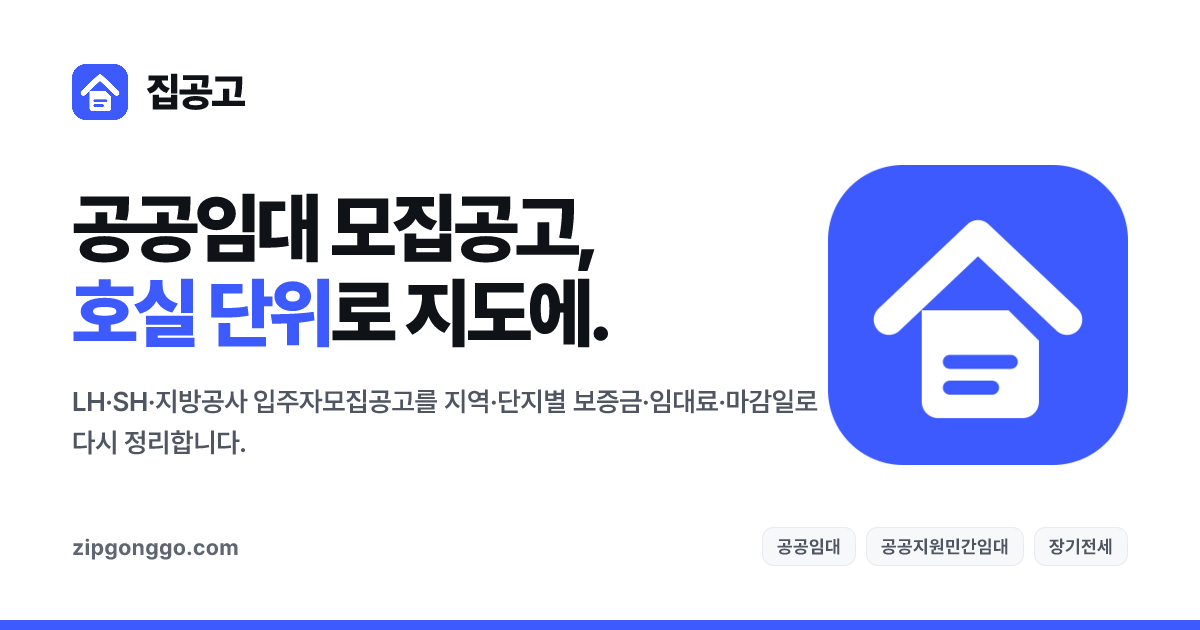
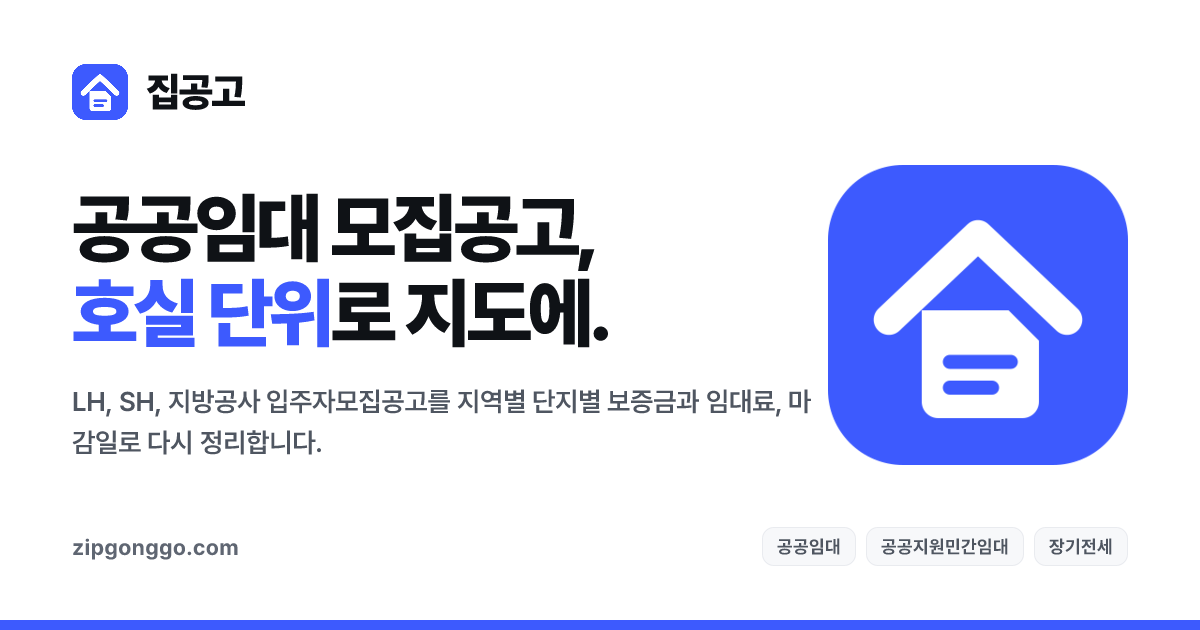
chore: 화면 문자열에서 가운뎃점 제거(사용자 결정) — 나열은 | , 병렬 명사는 자연스러운 한국어로. OG 이미지 문구도 재생성. CLAUDE.md에 표기 규칙 추가

Changed region(s): [[0.0617, 0.6032, 0.6783, 0.7238]]

diff --git a/web/src/app/notice/[slug]/page.tsx b/web/src/app/notice/[slug]/page.tsx
@@ -31,7 +31,7 @@ export async function generateMetadata({ params }: Params): Promise<Metadata> {
   const dday = d === null ? "" : d < 0 ? "(마감)" : `(D-${d})`;
   const supply = n.supply_count != null ? num(n.supply_count, "호") : "";
   return {
-    title: `${n.title} — ${n.housing_type} ${supply} 보증금·임대료·접수일정`.replace(/\s+/g, " "),
+    title: `${n.title} — ${n.housing_type} ${supply} 보증금/임대료/접수일정`.replace(/\s+/g, " "),
     description: `${n.agency} ${n.title}. 접수 ${dateK(n.apply_start_at)}~${dateK(n.apply_end_at)}${dday}. ${regionLabel(n)} ${supply}. 최소 보증금 ${won(n.min_deposit)}, 최소 월임대료 ${won(n.min_rent)}.`,
     alternates: { canonical: noticePath(n.slug) },
   };
@@ -57,12 +57,12 @@ function priceRows(n: Notice): PriceRow[] {
   const rows: PriceRow[] = [{ kind: "기본 (공고 최소값)", deposit: wonKo(n.min_deposit), rent: wonKo(n.min_rent), exact: [n.min_deposit, n.min_rent] }];
   const down = pos(n.min_down_payment), interim = pos(n.min_interim), balance = pos(n.min_balance);
   if (down != null || interim != null || balance != null) {
-    if (down != null) rows.push({ kind: "납부 구성 · 계약금", deposit: wonKo(down), rent: "—", exact: [down, null] });
-    if (interim != null) rows.push({ kind: "납부 구성 · 중도금", deposit: wonKo(interim), rent: "—", exact: [interim, null] });
-    if (balance != null) rows.push({ kind: "납부 구성 · 잔금", deposit: wonKo(balance), rent: "—", exact: [balance, null] });
+    if (down != null) rows.push({ kind: "납부 구성 계약금", deposit: wonKo(down), rent: "—", exact: [down, null] });
+    if (interim != null) rows.push({ kind: "납부 구성 중도금", deposit: wonKo(interim), rent: "—", exact: [interim, null] });
+    if (balance != null) rows.push({ kind: "납부 구성 잔금", deposit: wonKo(balance), rent: "—", exact: [balance, null] });
   } else if (n.min_rent == null && n.min_deposit != null) {
-    rows.push({ kind: "납부 구성 · 계약금 (10% 가정)", deposit: wonKo(Math.round(n.min_deposit * 0.1)), rent: "—", exact: [Math.round(n.min_deposit * 0.1), null] });
-    rows.push({ kind: "납부 구성 · 잔금 (90% 가정)", deposit: wonKo(Math.round(n.min_deposit * 0.9)), rent: "—", exact: [Math.round(n.min_deposit * 0.9), null] });
+    rows.push({ kind: "납부 구성 계약금 (10% 가정)", deposit: wonKo(Math.round(n.min_deposit * 0.1)), rent: "—", exact: [Math.round(n.min_deposit * 0.1), null] });
+    rows.push({ kind: "납부 구성 잔금 (90% 가정)", deposit: wonKo(Math.round(n.min_deposit * 0.9)), rent: "—", exact: [Math.round(n.min_deposit * 0.9), null] });
   }
   if ((n.max_deposit != null && n.max_deposit !== n.min_deposit) || (n.max_rent != null && n.max_rent !== n.min_rent)) {
     rows.push({ kind: "최대 (공고 최대값)", deposit: wonKo(n.max_deposit ?? n.min_deposit), rent: wonKo(n.max_rent ?? n.min_rent), exact: [n.max_deposit ?? n.min_deposit, n.max_rent ?? n.min_rent] });
@@ -102,7 +102,7 @@ export default async function NoticePage({ params }: Params) {
     <article className="stage">
       <div className="crumb">
         <Link href={ROUTES.home} className="back">← 지도</Link>
-        <span>공고 · {region} · {n.housing_type}</span>
+        <span>공고 | {region} | {n.housing_type}</span>
       </div>
 
       <div className="detail">
@@ -122,12 +122,12 @@ export default async function NoticePage({ params }: Params) {
                 <span className="jumbo-label">{m.label}</span>
                 <b className="jumbo">{range_ ? `${m.main}~${range_}` : m.main}</b>
                 {!range_ && <span className="jumbo-from">부터</span>}
-                {m.sub && <span className="jumbo-sub">{m.sub} 부터 · 공고 최소값</span>}
-                {range_ && <span className="jumbo-sub">단지·면적별 {m.label} 범위 · 첨부 공고문 공급현황 표</span>}
+                {m.sub && <span className="jumbo-sub">{m.sub} 부터, 공고 최소값</span>}
+                {range_ && <span className="jumbo-sub">단지별 면적별 {m.label} 범위, 첨부 공고문 공급현황 표</span>}
               </>
             ) : (
               <>
-                <span className="jumbo-label">보증금 · 임대료</span>
+                <span className="jumbo-label">보증금과 임대료</span>
                 <span className="jumbo-sub" style={{ marginTop: 0 }}>목록 데이터에 금액이 없습니다. {L.originalDoc}의 표를 확인하세요.</span>
               </>
             )}
@@ -155,7 +155,7 @@ export default async function NoticePage({ params }: Params) {
                 ))}
               </div>
             ) : (
-              <p className="note" style={{ marginTop: 0 }}>공고일 {dateK(n.posted_at, true)}{n.source_status && ` · 모집 상태 ${n.source_status}`} · 접수 기간은 {L.originalDoc}에서 확인하세요.</p>
+              <p className="note" style={{ marginTop: 0 }}>공고일 {dateK(n.posted_at, true)}{n.source_status && `, 모집 상태 ${n.source_status}`}. 접수 기간은 {L.originalDoc}에서 확인하세요.</p>
             )}
             {hasSchedule && n.source_status && <p className="note">모집 상태 {n.source_status}</p>}
             {hasSchedule && n.schedule_source === "attachment" && <p className="note">일정은 첨부 공고문의 「입주자 모집 절차 및 일정」에서 읽었습니다. 순위별 세부 일정은 원문을 확인하세요.</p>}
@@ -163,8 +163,8 @@ export default async function NoticePage({ params }: Params) {
 
           {hasMoney && (
             <section className="dsec">
-              <h2>보증금 · 임대료</h2>
-              <div className="ptable" role="table" aria-label="보증금·임대료">
+              <h2>보증금과 임대료</h2>
+              <div className="ptable" role="table" aria-label="보증금과 임대료">
                 <div className="h" role="row"><span role="columnheader">구분</span><span role="columnheader" style={{ textAlign: "right" }}>보증금</span><span role="columnheader" style={{ textAlign: "right" }}>월임대료</span></div>
                 {priceRows(n).map((r) => (
                   <div key={r.kind} role="row">
@@ -174,17 +174,17 @@ export default async function NoticePage({ params }: Params) {
                   </div>
                 ))}
               </div>
-              <p className="note">단지·호실별 금액은 {L.originalDoc}의 표를 따릅니다.</p>
+              <p className="note">단지별 호실별 금액은 {L.originalDoc}의 표를 따릅니다.</p>
             </section>
           )}
 
           {complexes.length > 0 && (
             <section className="dsec">
-              <h2>공급 단지 {count(complexes.length, "곳")}{hasUnits && ` · ${count(unitTotal, "호")}`}</h2>
+              <h2>공급 단지 {count(complexes.length, "곳")}{hasUnits && ` | ${count(unitTotal, "호")}`}</h2>
               <p className="note" style={{ margin: "0 0 12px" }}>
                 {hasUnits
-                  ? "첨부 공고문의 「주택목록」(호실 단위)을 단지별로 묶은 목록입니다. 보증금·월임대료는 단지 안 최소값이고, 호별 금액은 원문 표를 확인하세요."
-                  : `첨부 공고문의 「주택 위치 안내」 표를 재구성한 목록입니다.${newCount > 0 ? ` 이번 공고 신규 단지 ${newCount}곳.` : ""} 단지별 면적·호수·금액은 원문 표를 확인하세요.`}
+                  ? "첨부 공고문의 「주택목록」(호실 단위)을 단지별로 묶은 목록입니다. 보증금과 월임대료는 단지 안 최소값이고, 호별 금액은 원문 표를 확인하세요."
+                  : `첨부 공고문의 「주택 위치 안내」 표를 재구성한 목록입니다.${newCount > 0 ? ` 이번 공고 신규 단지 ${newCount}곳.` : ""} 단지별 면적과 호수, 금액은 원문 표를 확인하세요.`}
               </p>
               <ComplexExplorer items={complexes} hasUnits={hasUnits} />
             </section>
@@ -220,7 +220,7 @@ export default async function NoticePage({ params }: Params) {
           )}
 
           <section className="dsec">
-            <h2>원문 · 문의</h2>
+            <h2>원문과 문의</h2>
             <ul className="link-list">
               <li><ExternalLink href={n.source_url}>{L.originalListItem} ↗</ExternalLink></li>
               {n.portal_url && <li><ExternalLink href={n.portal_url}>{L.portalListItem} ↗</ExternalLink></li>}
@@ -257,7 +257,7 @@ export default async function NoticePage({ params }: Params) {
               <div className="r"><span>공급호수</span><b>{n.supply_count != null ? num(n.supply_count, "호") : "—"}</b></div>
               <div className="r"><span>접수</span><b>{period ?? "—"}</b></div>
               <div className="r"><span>문의처</span><b>{n.contact ?? "—"}</b></div>
-              <span className="u">갱신 {n.updated_at} · {L.updatedVia}</span>
+              <span className="u">갱신 {n.updated_at} | {L.updatedVia}</span>
             </div>
           </div>
         </aside>

diff --git a/web/src/app/(home)/page.tsx b/web/src/app/(home)/page.tsx
@@ -14,8 +14,8 @@ export const revalidate = 3600;
 
 type SearchParams = Promise<Record<string, string | string[] | undefined>>;
 
-const HOME_TITLE = "공공임대·민간임대 입주자모집공고 목록";
-const HOME_DESCRIPTION = "LH·SH·지방공사 공공임대와 공공지원민간임대 입주자모집공고를 한곳에. 마감 임박순·최신 공고순, 시도·공급유형별 보증금·월임대료·접수일정. 공고별 공급 단지는 지도로.";
+const HOME_TITLE = "공공임대/민간임대 입주자모집공고 목록";
+const HOME_DESCRIPTION = "LH, SH, 지방공사 공공임대와 공공지원민간임대 입주자모집공고를 한곳에. 마감 임박순과 최신 공고순, 시도별 공급유형별 보증금, 월임대료, 접수일정. 공고별 공급 단지는 지도로.";
 
 // 필터 결과(?sector=&sido=&type=&sort=&closing=)는 noindex, canonical은 파라미터 없는 "/" — docs/url-structure.md
 export async function generateMetadata({ searchParams }: { searchParams: SearchParams }): Promise<Metadata> {
@@ -50,7 +50,7 @@ export default async function HomePage({ searchParams }: { searchParams: SearchP
   return (
     <div className="stage">
       <div className="list-hero">
-        <p className="eyebrow">공공임대 {countOf("공공임대")} · 공공지원민간임대 {countOf("민간임대")}</p>
+        <p className="eyebrow">공공임대 {countOf("공공임대")} | 공공지원민간임대 {countOf("민간임대")}</p>
         <h1>{LIST_HERO_TITLE}</h1>
         <p>{LIST_HERO_LEAD}</p>
       </div>

diff --git a/web/src/components/complex-explorer.tsx b/web/src/components/complex-explorer.tsx
@@ -118,7 +118,7 @@ export function ComplexExplorer({ items, hasUnits }: Props) {
             <option value="">자치구 전체</option>
             {gus.map(([g, n]) => <option key={g} value={g}>{g} ({n})</option>)}
           </select>
-          <input type="search" value={q} onChange={(e) => { setQ(e.target.value); setSelected(null); }} placeholder="단지명·주소 검색" aria-label="단지명·주소 검색" />
+          <input type="search" value={q} onChange={(e) => { setQ(e.target.value); setSelected(null); }} placeholder="단지명, 주소 검색" aria-label="단지명, 주소 검색" />
         </div>
         <p className="cx-count"><b>{visible.length}</b> / {items.length}{hasUnits ? "단지" : "곳"}</p>
         <ul className="cx-list" ref={listEl} aria-label="공급 단지 목록" onKeyDown={onListKey}>
@@ -172,7 +172,7 @@ export function ComplexExplorer({ items, hasUnits }: Props) {
           {phase === "loading"
             ? `주소 찾는 중 ${progress}/${items.length}`
             : phase === "ready"
-              ? `${found}/${visible.length}곳 표시 · 위치는 도로명주소 기준 근사치. 목록이나 핀을 누르면 이름이 보이고, 로드뷰를 열 수 있습니다.`
+              ? `${found}/${visible.length}곳 표시. 위치는 도로명주소 기준 근사치입니다. 목록이나 핀을 누르면 이름이 보이고, 로드뷰를 열 수 있습니다.`
               : "위치는 도로명주소 기준 근사치입니다."}
         </p>
       </div>

diff --git a/web/src/components/notice-row.tsx b/web/src/components/notice-row.tsx
@@ -26,10 +26,10 @@ export function NoticeRow({ n, stagger }: Props) {
   const d = ddayChip(n);
   const m = moneyOf(n);
   const qty = n.supply_count != null ? num(n.supply_count, "호") : null;
-  const meta = [n.agency, regionShort(n), n.housing_type].filter(Boolean).join(" · ");
-  const dates = n.announce_at ? `${periodLabel(n)} · 발표 ${dateMD(n.announce_at)}` : periodLabel(n);
+  const meta = [n.agency, regionShort(n), n.housing_type].filter(Boolean).join(" | ");
+  const dates = n.announce_at ? `${periodLabel(n)}, 발표 ${dateMD(n.announce_at)}` : periodLabel(n);
   const style = stagger === undefined ? undefined : ({ "--stagger": `${stagger}ms` } as CSSProperties);
-  const moneySub = [qty, m?.label ?? null, m?.sub ?? null].filter(Boolean).join(" · ");
+  const moneySub = [qty, m?.label ?? null, m?.sub ?? null].filter(Boolean).join(" | ");
 
   return (
     <li>
@@ -43,7 +43,7 @@ export function NoticeRow({ n, stagger }: Props) {
           <span>{d.unit}</span>
         </span>
         <span className="row-body">
-          <span className="row-meta">{meta} · 공고 {dateK(n.posted_at)}{n.amends_source_key && " · 정정"}</span>
+          <span className="row-meta">{meta} | 공고 {dateK(n.posted_at)}{n.amends_source_key && " | 정정"}</span>
           <span className="row-title">{n.title}</span>
           <span className="row-narrow">
             <b>{m ? m.main : "금액 원문 확인"}</b>

diff --git a/web/src/lib/constants.ts b/web/src/lib/constants.ts
@@ -2,13 +2,13 @@
 
 export const SITE_NAME = "집공고";
 export const SITE_TITLE = `${SITE_NAME} — 공공임대 모집공고 지도`;
-export const SITE_DESCRIPTION = "LH·SH·지방공사 공공임대 입주자모집공고를 지역·단지 단위로 모아 보증금·임대료·마감일을 한눈에.";
+export const SITE_DESCRIPTION = "LH, SH, 지방공사 공공임대 입주자모집공고를 지역별 단지별로 모아 보증금과 임대료, 마감일을 한눈에.";
 
 // 홈 KPI 스트립 라벨 — page.tsx와 loading.tsx가 같은 순서로 그린다(스트리밍 폴백이 본문과 어긋나면 안 됨)
 export const KPI_LABELS = ["전체 공고", "서울", "7일 내 마감", "중위 월임대료"] as const;
 // 목록 뷰(?view=list) 히어로
 export const LIST_HERO_TITLE = "수백 페이지 표를 호실 단위로.";
-export const LIST_HERO_LEAD = "LH·SH·지방공사 공고를 한곳에 모읍니다. 보증금·월임대료는 공고에 적힌 최소값입니다.";
+export const LIST_HERO_LEAD = "LH, SH, 지방공사 공고를 한곳에 모읍니다. 보증금과 월임대료는 공고에 적힌 최소값입니다.";
 // KPI 카운트업 길이(ms). 경과 시간 기준 보간, 끝에서 실제 값으로 스냅
 export const KPI_COUNT_MS = 800;
 // 저장(★) 목록 localStorage 키. 서버 저장 없음 — 사용자 식별이 생기면 옮긴다

diff --git a/web/src/app/layout.tsx b/web/src/app/layout.tsx
@@ -36,8 +36,8 @@ export default function RootLayout({ children }: { children: React.ReactNode }) 
           <main className="shell">{children}</main>
           <footer className="site-footer">
             <div className="bar">
-              <p>출처: 국토교통부 마이홈포털 공공주택 모집공고 조회 서비스(공공데이터포털) · 서울주거포털 SH 공고 목록. 공고 원문은 각 기관 링크에서 확인하세요.</p>
-              <p>보증금·임대료는 공고에 기재된 최소값입니다. 호실별 금액은 기관 원문을 따릅니다.</p>
+              <p>출처: 국토교통부 마이홈포털 공공주택 모집공고 조회 서비스(공공데이터포털), 서울주거포털 SH 공고 목록. 공고 원문은 각 기관 링크에서 확인하세요.</p>
+              <p>보증금과 임대료는 공고에 기재된 최소값입니다. 호실별 금액은 기관 원문을 따릅니다.</p>
             </div>
           </footer>
         </SaveProvider>

diff --git a/web/src/lib/agency.ts b/web/src/lib/agency.ts
@@ -18,7 +18,7 @@ export type AgencyLabels = {
 };
 
 const SH: AgencyLabels = {
-  original: "SH 원문 공고·첨부 보기 ↗",
+  original: "SH 원문 공고와 첨부 보기 ↗",
   originalListItem: "SH 공고 원문 (첨부파일 포함)",
   portal: "서울주거포털 ↗",
   portalListItem: "서울주거포털 게시글",

diff --git a/CLAUDE.md b/CLAUDE.md
@@ -90,3 +90,10 @@ docs/       설계 문서. 결정이 바뀌면 코드보다 먼저 여기를 고
 - 데이터 소스를 새로 쓸 때는 [`docs/data-sources.md`](docs/data-sources.md)의 판정 배지를 먼저 본다.
   **미확인** 항목에 의존하는 코드를 쓰지 않는다.
 - 파서를 만들거나 고칠 때는 SH 청년매입임대 공개 목록(data.go.kr 15102880)을 정답지로 회귀 테스트한다.
+
+## 표기 규칙
+
+- **가운뎃점(·)을 화면 문자열에 쓰지 않는다** (사용자 결정 2026-09-08).
+  나열 구분은 ` | `, 병렬 명사는 `/` 또는 자연스러운 한국어("보증금과 임대료")로 쓴다.
+  코드 주석과 문서에는 써도 된다. 공고 제목처럼 기관 원문 그대로 싣는 값은 바꾸지 않는다.
+- 금액은 억, 만 단위 한글 표기(`wonKo`) — `109,600,000원` → `1억 960만 원`. 정확한 원 단위는 title 속성으로만.
